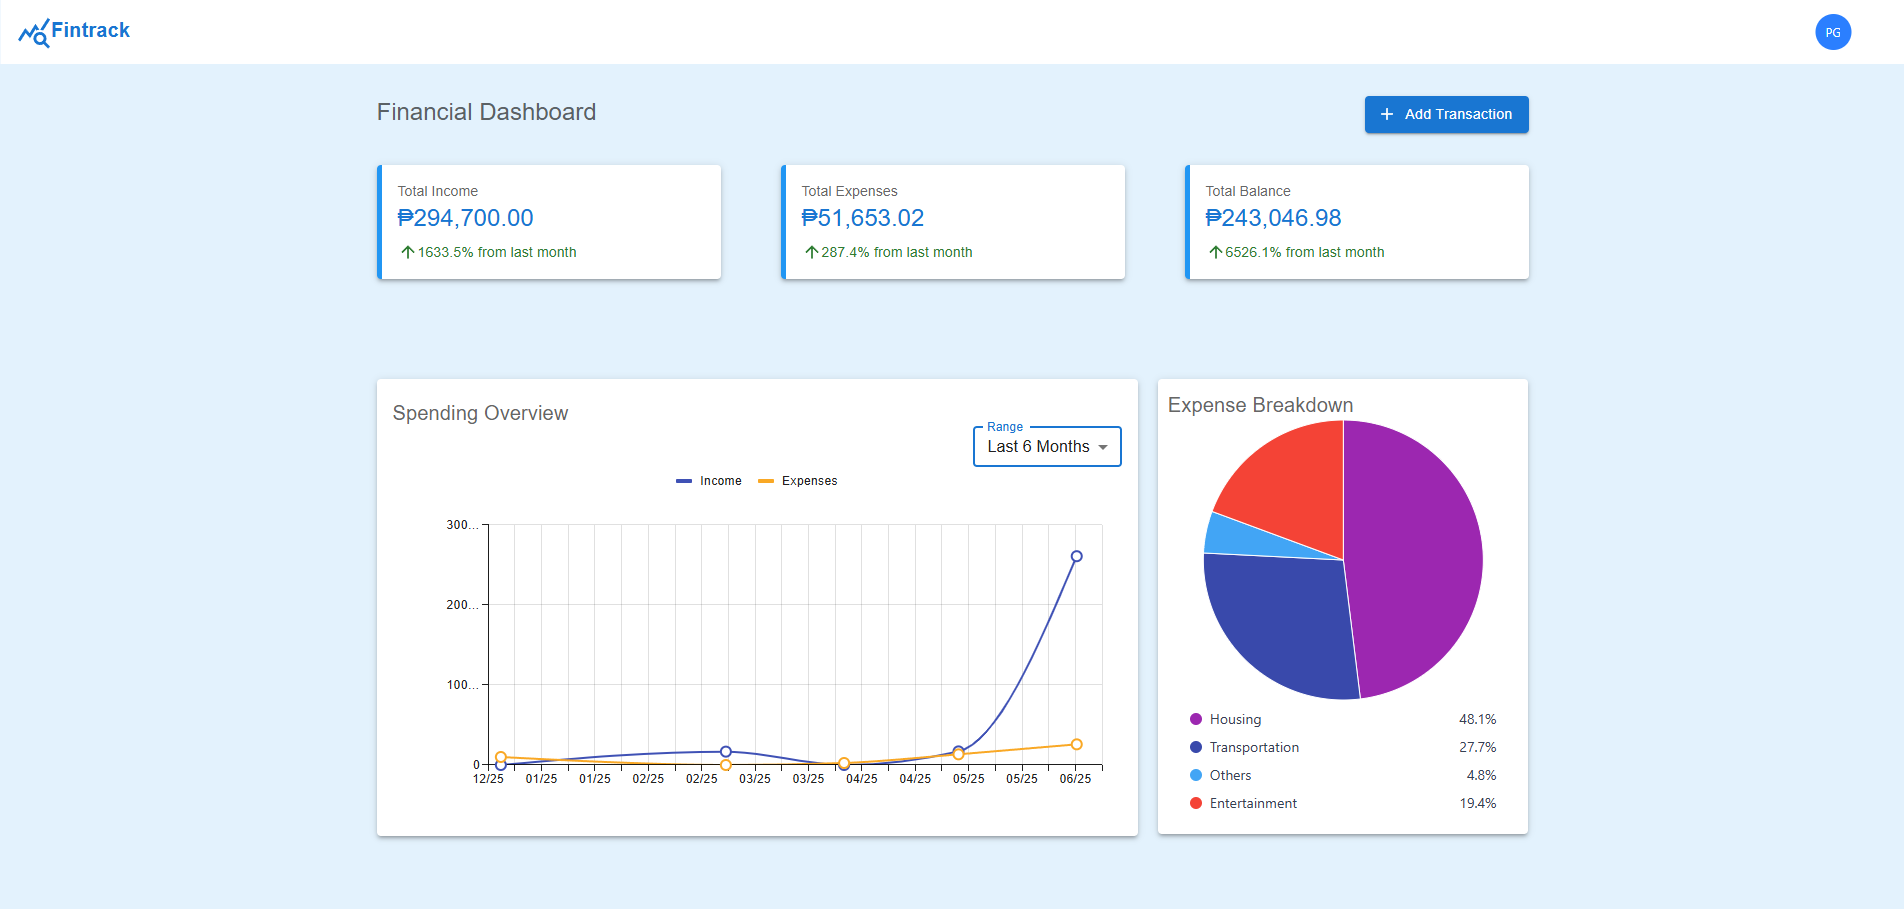
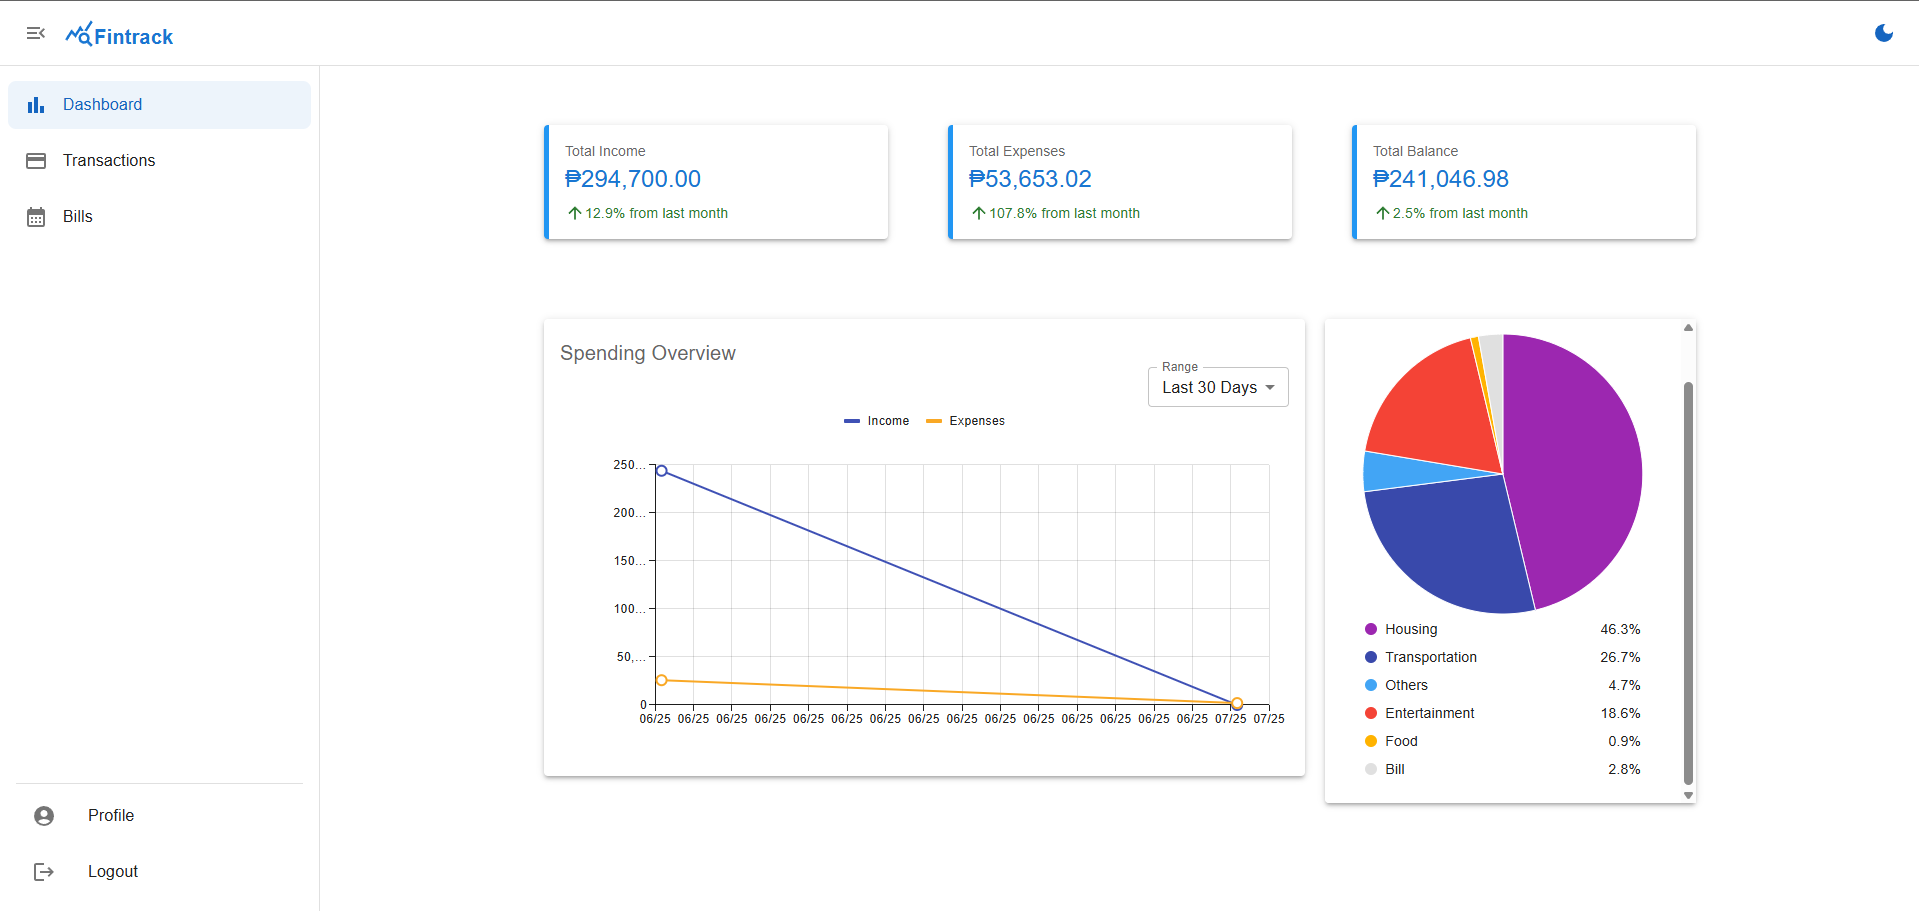
change: image for fintrack

diff --git a/portfolio-app/src/components-v2/ProjectsSection.jsx b/portfolio-app/src/components-v2/ProjectsSection.jsx
@@ -1,5 +1,13 @@
+import { useState } from "react";
 import { ApplyCorporate, PortalAdmin, Fintrack } from "../assets";
-import { Box } from "@mui/material";
+import {
+  Box,
+  Dialog,
+  DialogActions,
+  DialogContent,
+  DialogTitle,
+  Button,
+} from "@mui/material";
 const applyCorporateLink = "https://apply.finxp.com/";
 const finXPPortalAdminLink = "https://portal-admin.finxp.com/";
 const fintrackLink = "https://financetracker-app.com/";
@@ -8,9 +16,14 @@ const projects = [
   {
     image: Fintrack,
     title: "Finance Tracker App",
-    description:
-      "A modern personal finance management application built to help users track income, expenses, and budgeting goals efficiently. The app features secure user authentication, responsive dashboard analytics with interactive charts, transaction history filtering, and profile customization with photo upload. It supports real-time data updates and ensures data privacy using token-based authentication. The app emphasizes usability, clean design, and practical financial insights for day-to-day money management.",
-    technologies: ["React", "Material UI", "Node.js", "MongoDB", "AWS"],
+    features: [
+      "Secure sign-in and personalized user profiles.",
+      "Automatically notifies users through email about upcoming bills, ensuring they never miss a payment.",
+      "Keep track of bills with custom billing statuses and set them to recur at specified intervals for easy management.",
+      "Monitor user's finances with an intuitive interface featuring Line and Pie Charts for a clear overview of your income and spending",
+      "Automatically logs out inactive users after a set period for added security",
+      "Allows users to upload and display their photo for a personalized experience",
+    ],
     demoColor: "bg-orange-500",
     demoLink: fintrackLink,
     code: fintrackCode,
@@ -20,13 +33,7 @@ const projects = [
     title: "Apply Corporate",
     description:
       "A web application that enables companies to apply to FinXP as their financial payment solution. It features complex API and frontend integrations, including auto-save functionality, document upload/download, conditional form rendering, section-based validation with error tracking, and full field disabling upon submission.",
-    // features: [
-    //   "User authentication and profiles",
-    //   "Product search and filtering",
-    //   "Shopping cart and checkout",
-    //   "Payment gateway integration",
-    //   "Order tracking system",
-    // ],
+
     technologies: ["React", "Laravel", "KeyCloak", "MySQL", "Typescript"],
     demoColor: "bg-blue-500",
     demoLink: applyCorporateLink,
@@ -44,6 +51,19 @@ const projects = [
 ];
 
 export default function ProjectsSection() {
+  const [openModal, setOpenModal] = useState(false);
+  const [currentImage, setCurrentImage] = useState(null);
+
+  const handleImageClick = (image) => {
+    setCurrentImage(image);
+    setOpenModal(true);
+  };
+
+  const handleCloseModal = () => {
+    setOpenModal(false);
+    setCurrentImage(null);
+  };
+
   return (
     <section id="projects" className="bg-[#0f172a] text-white py-20 px-6">
       <h2 className="text-3xl font-bold text-center mb-10">
@@ -53,32 +73,29 @@ export default function ProjectsSection() {
         {projects?.map((project, index) => (
           <div key={index} className="bg-[#1e293b] p-6 rounded-xl shadow-lg">
             <div
-              className={`w-full h-31 lg:h-32 rounded-t-xl flex items-center justify-center text-3xl text-white`}
+              className={`w-full h-31 lg:h-32 rounded-t-xl flex items-center justify-center text-3xl text-white cursor-pointer`}
+              onClick={() => handleImageClick(project?.image)}
             >
               <Box
                 component="img"
-                sx={{ maxWidth: "100%", height: "auto", width: "600px" }}
+                sx={{
+                  maxWidth: "100%",
+                  height: "auto",
+                  width: "100%",
+                  maxHeight: "200px",
+                  objectFit: "cover",
+                }}
                 src={project?.image}
-                alt="Banner"
+                alt={project?.title}
               />
             </div>
             <h3 className="text-xl font-semibold mt-7">{project?.title}</h3>
             <p className="text-gray-300 mt-2">{project?.description}</p>
-            <ul className="text-sm mt-2 list-disc ml-5 text-gray-400">
+            <ul className="text-sm mt-2 list-disc ml-5">
               {project?.features?.map((feature, idx) => (
                 <li key={idx}>{feature}</li>
               ))}
             </ul>
-            <div className="flex flex-wrap gap-2 mt-3">
-              {project?.technologies?.map((tech) => (
-                <span
-                  key={tech}
-                  className="bg-blue-900 px-2 py-1 rounded text-sm"
-                >
-                  {tech}
-                </span>
-              ))}
-            </div>
             <div className="flex gap-4 mt-4">
               {!["Apply Corporate", "Maltese Creditor Identifier"]?.includes(
                 project.title
@@ -106,6 +123,30 @@ export default function ProjectsSection() {
           </div>
         ))}
       </div>
+
+      <Dialog open={openModal} onClose={handleCloseModal} fullWidth>
+        <DialogTitle>Project Image</DialogTitle>
+        <DialogContent>
+          {currentImage && (
+            <Box
+              component="img"
+              sx={{
+                width: "100%",
+                height: "auto",
+                maxHeight: "80vh",
+                objectFit: "contain",
+              }}
+              src={currentImage}
+              alt="Project Preview"
+            />
+          )}
+        </DialogContent>
+        <DialogActions>
+          <Button onClick={handleCloseModal} color="primary">
+            Close
+          </Button>
+        </DialogActions>
+      </Dialog>
     </section>
   );
 }

diff --git a/portfolio-app/src/components-v2/SkillsSection.jsx b/portfolio-app/src/components-v2/SkillsSection.jsx
@@ -4,7 +4,7 @@ const skills = {
     "CSS3",
     "JavaScript",
     "React",
-    "Redux",
+    "TypeScript",
     "Tailwind CSS",
     "Material UI",
   ],
